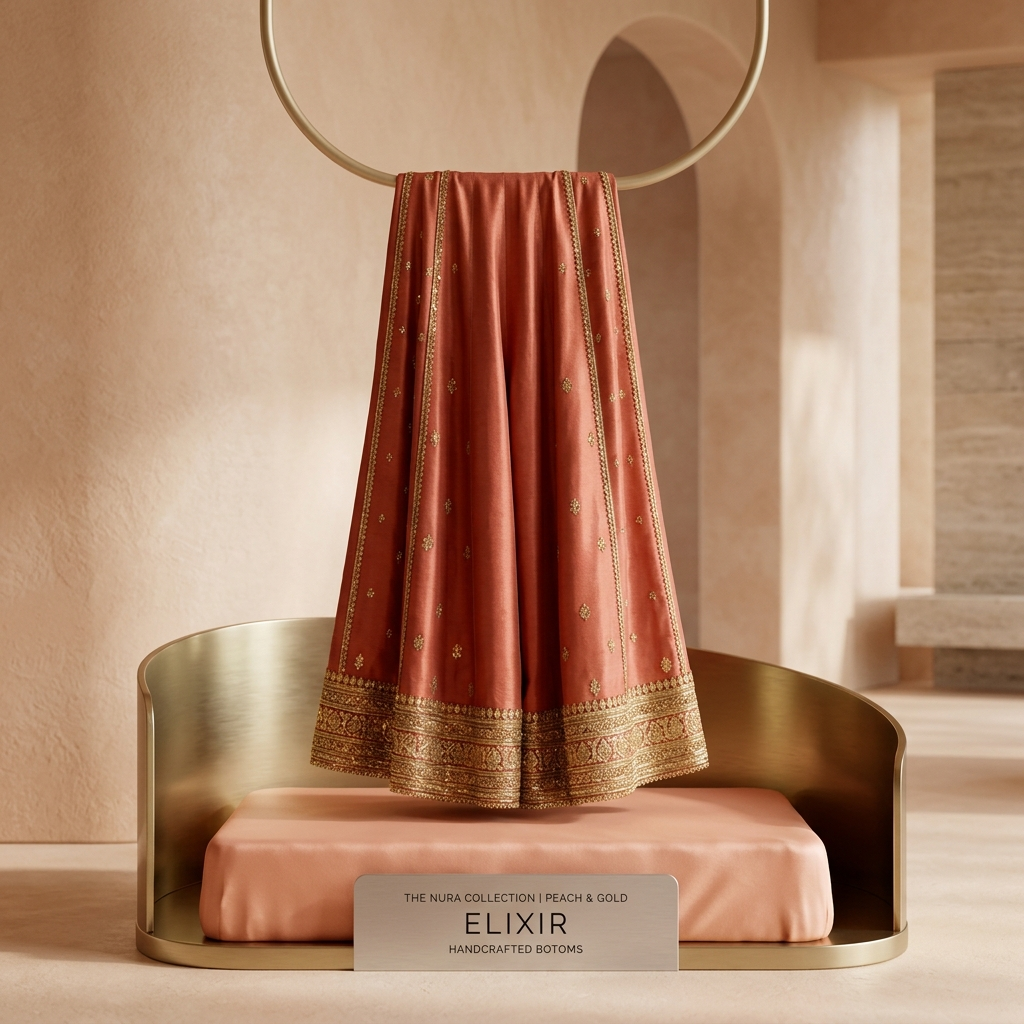
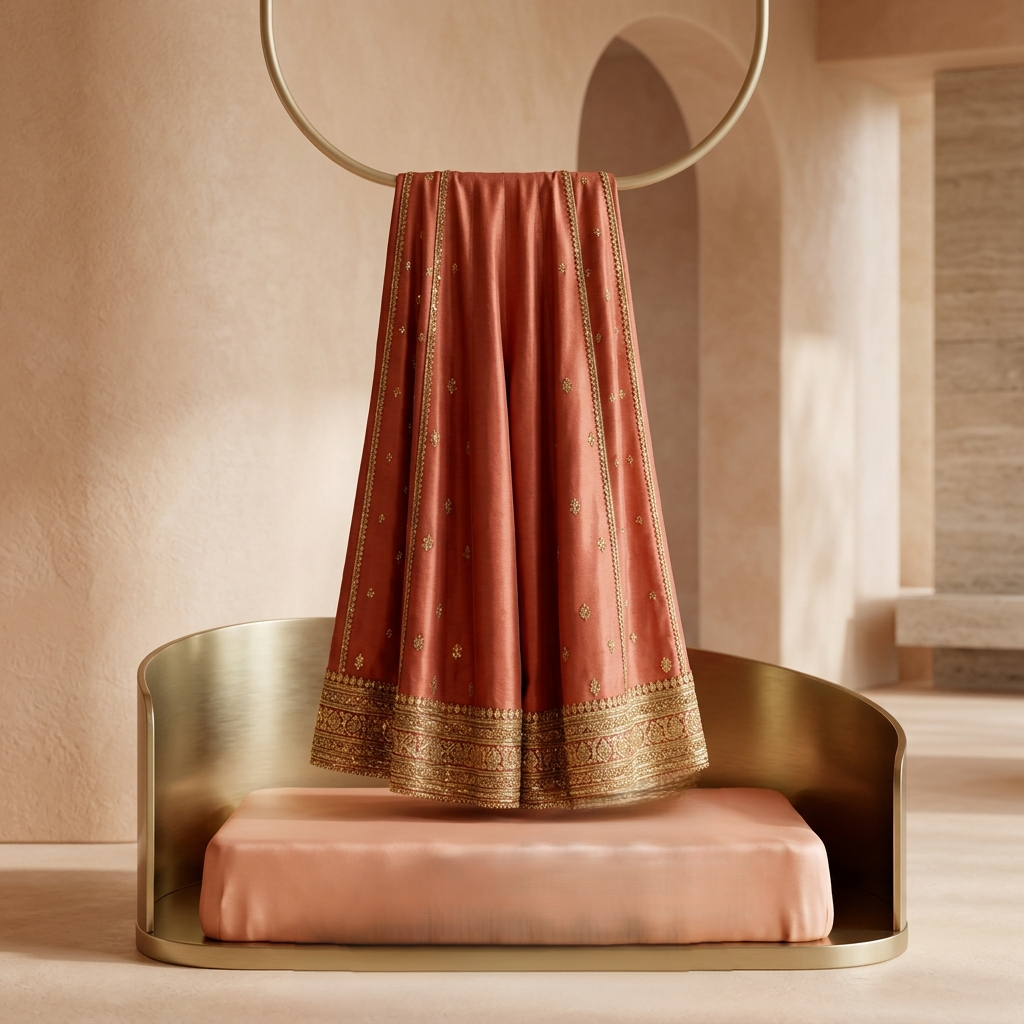
Fix product details routing issue

Changed region(s): [[0.2812, 0.75, 0.7188, 0.9688]]

diff --git a/src/app/product/[id]/page.tsx b/src/app/product/[id]/page.tsx
@@ -14,8 +14,8 @@ export default function ProductDetails() {
   const { addToCart } = useStore();
   const router = useRouter();
   
-  // Just use the first product as mock
-  const product = products[0];
+  // Find the product by id from the URL params, fallback to products[0] if not found
+  const product = products.find(p => p.id === params.id) || products[0];
 
   return (
     <div className="relative bg-white min-h-screen">